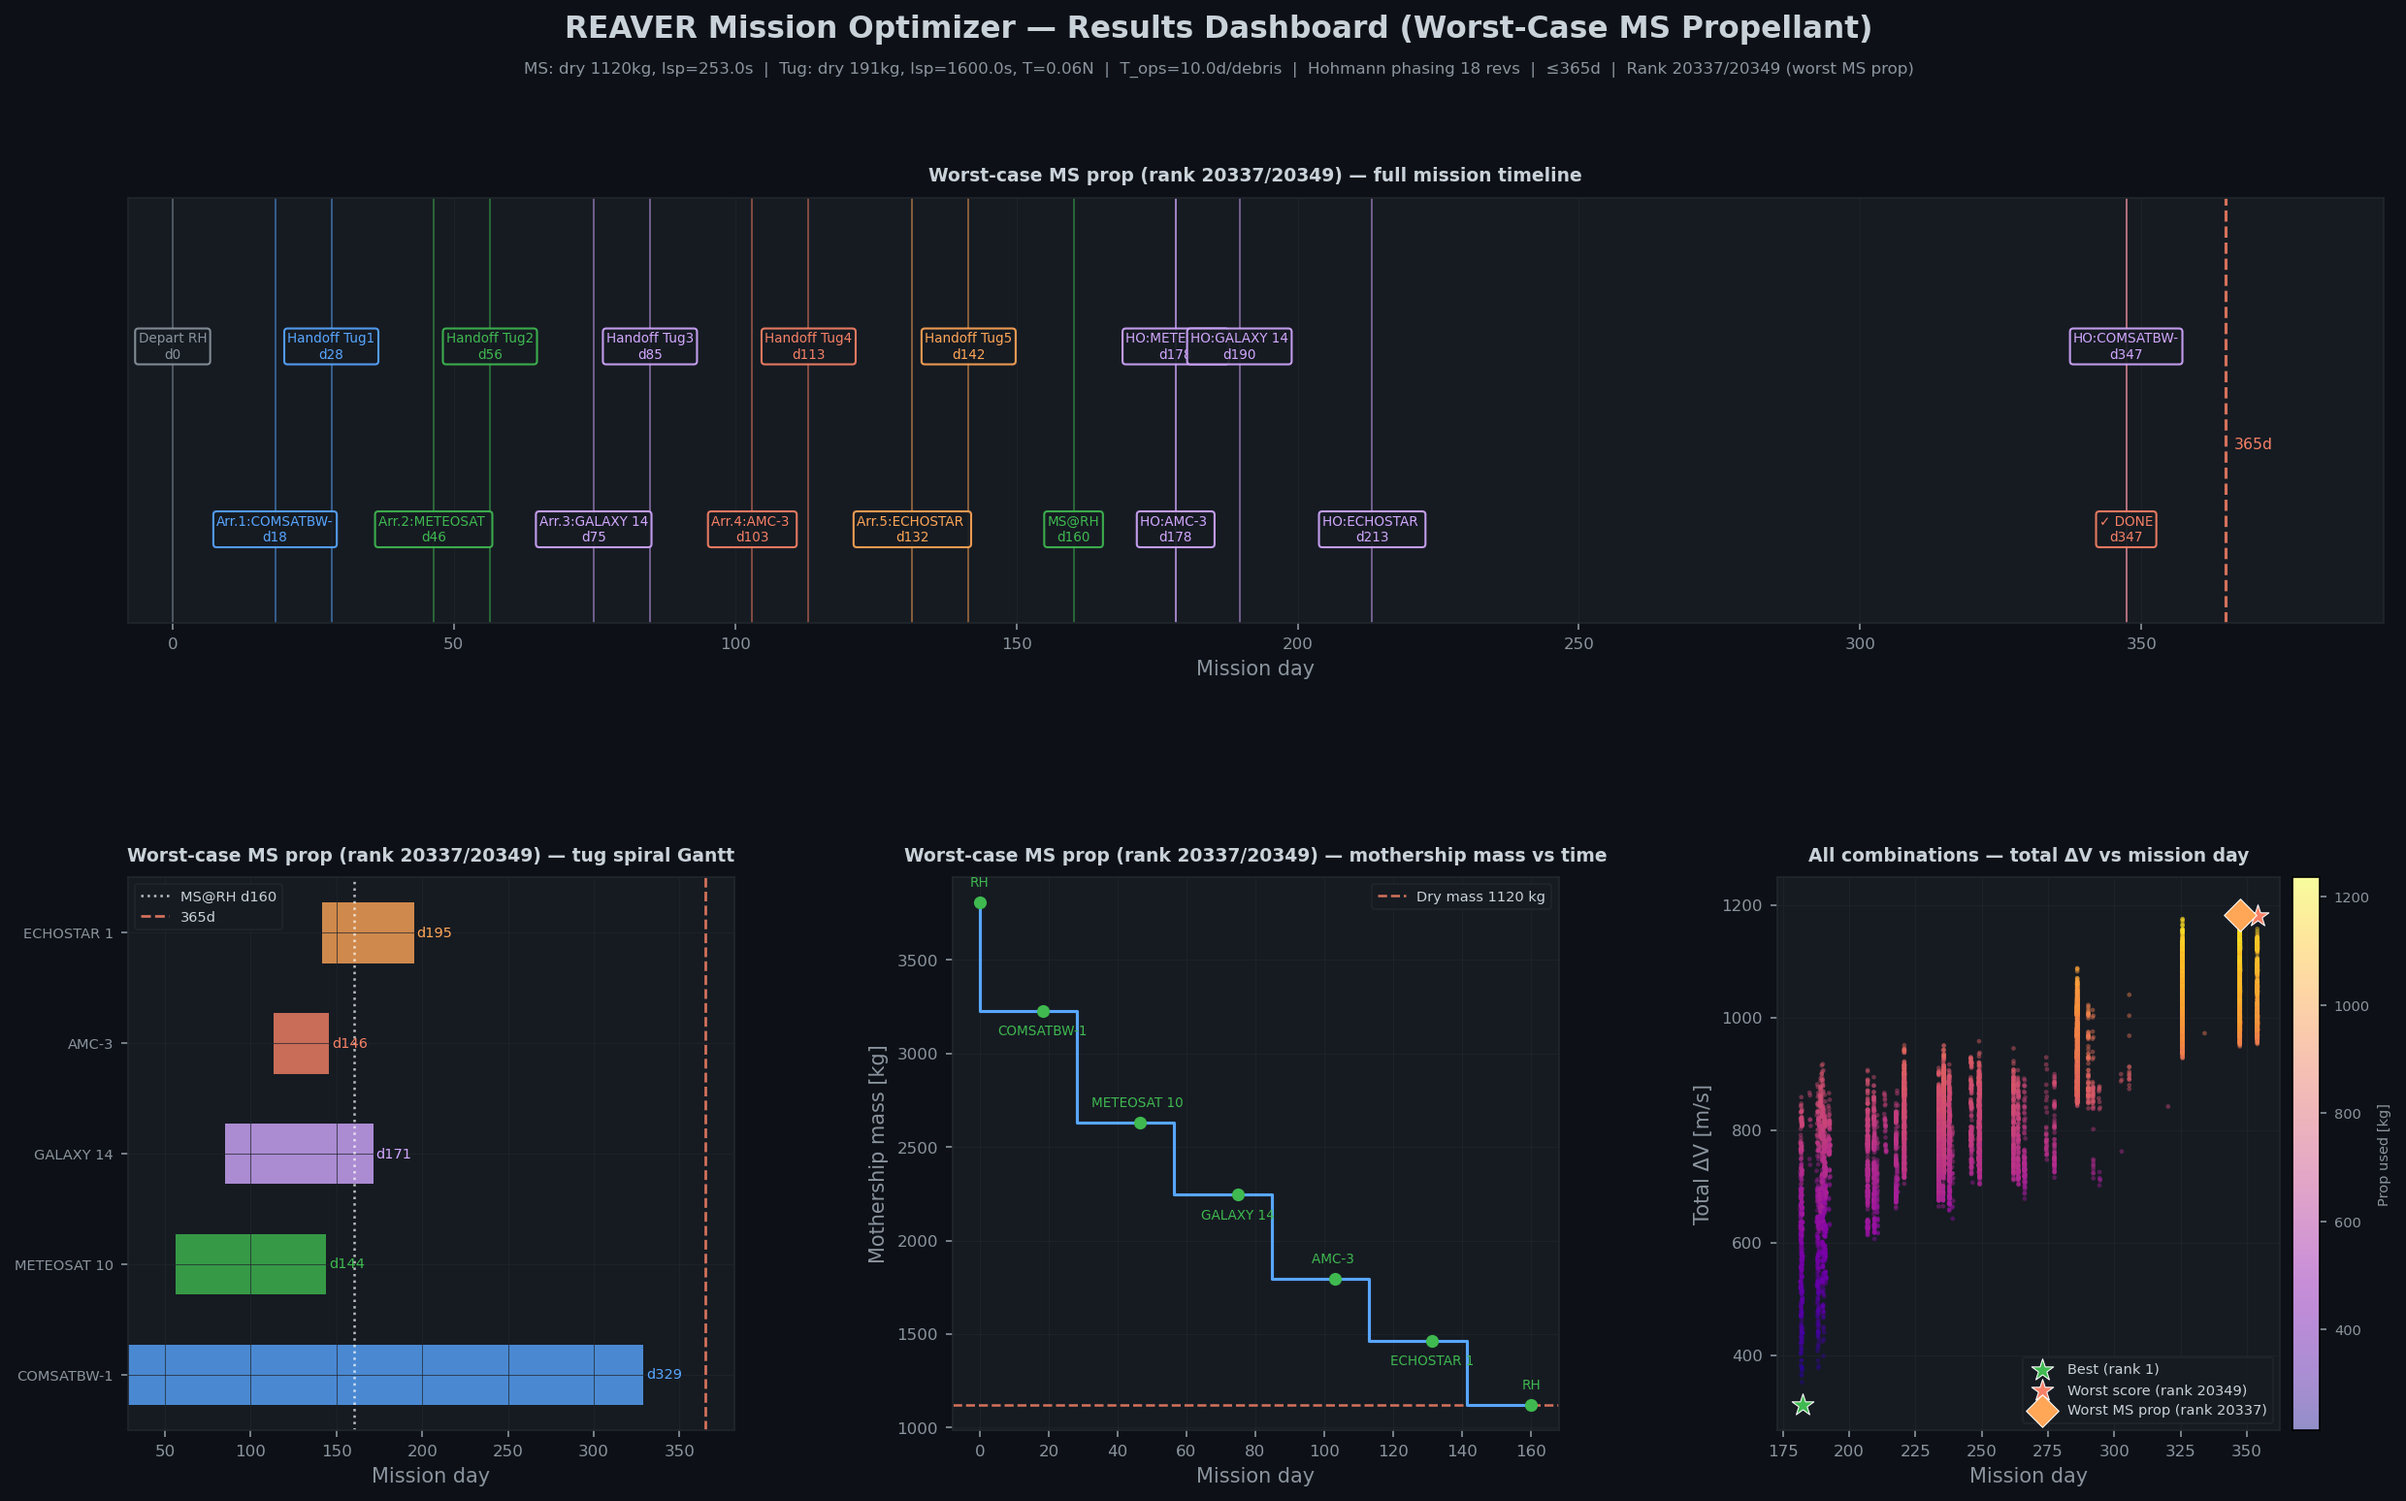
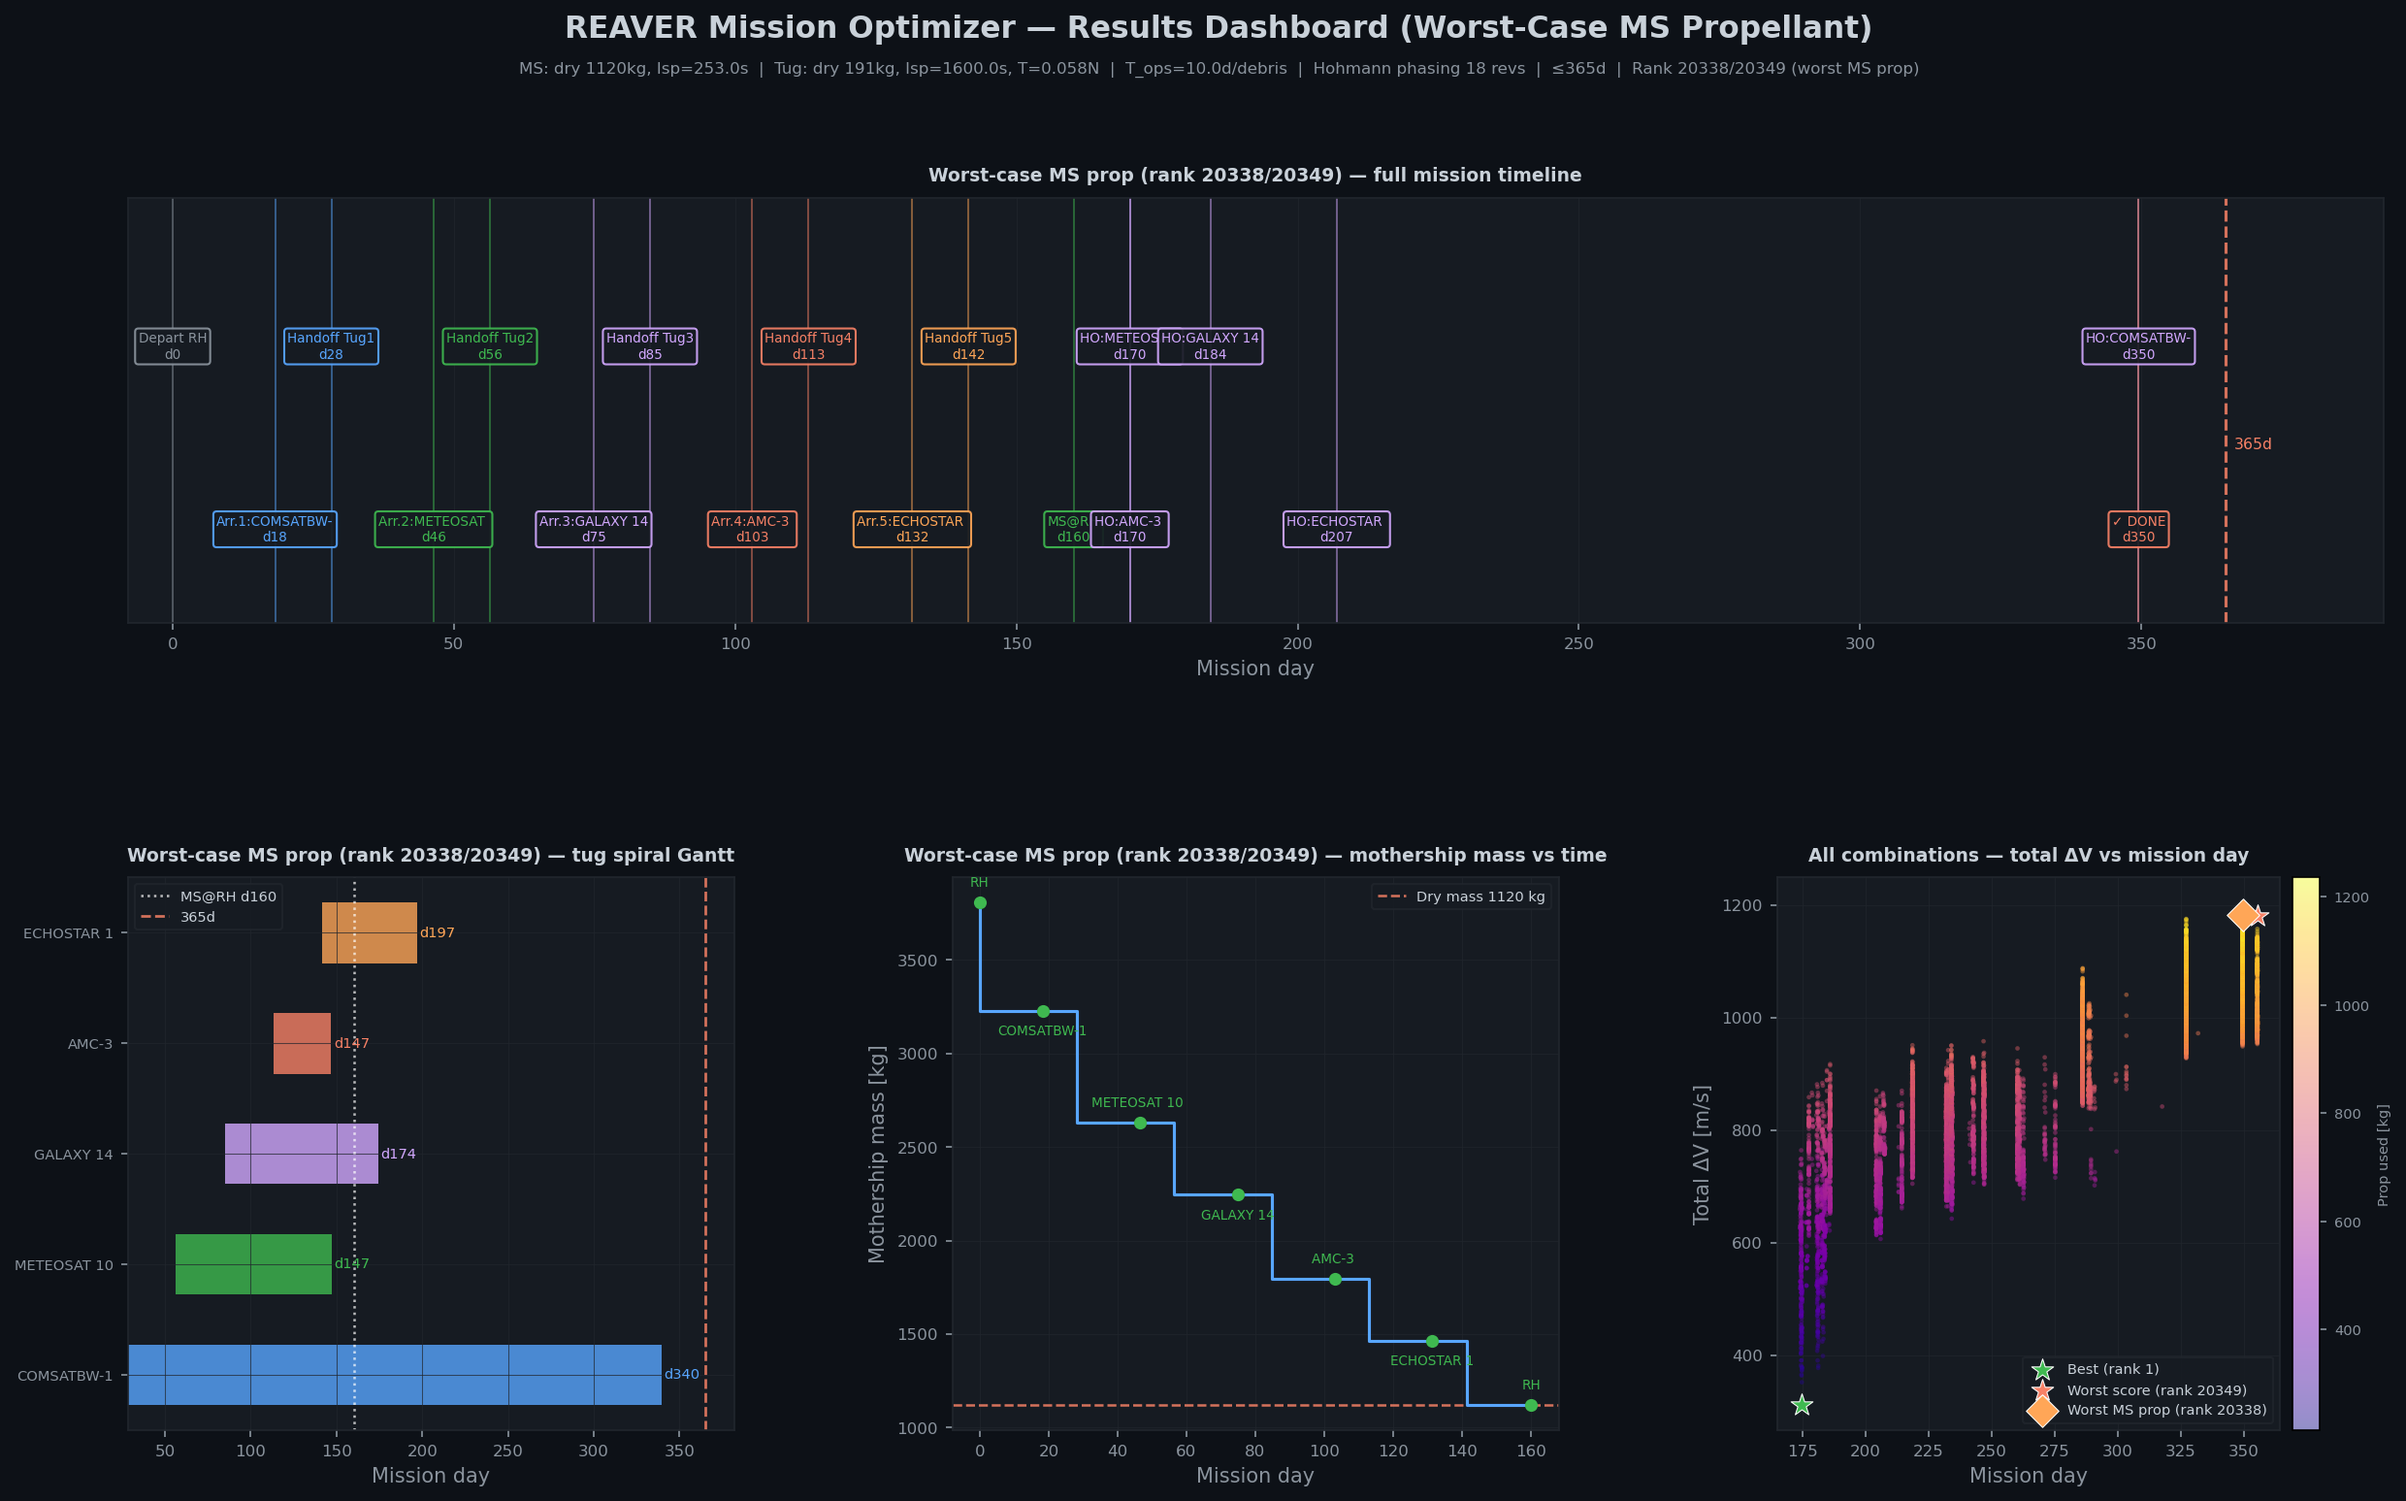
updates

diff --git a/trajectory_optimizer/reaver_optimizer.py b/trajectory_optimizer/reaver_optimizer.py
@@ -34,8 +34,7 @@ warnings.filterwarnings('ignore')
 from config import *
 from reaver_core import (build_transfer_table, compute_tug_spirals, phasing_hohmann,
                          DV1, DV2, DV_PH, T_TR, T_PH, DV_LEG, T_LEG,
-                         TUG_DV, TUG_TIME, TUG_MPROP, TUG_MWET, TUG_WET_LOADED,
-                         T_PH_RH)
+                         TUG_DV, TUG_TIME, TUG_MPROP, TUG_MWET, TUG_WET_LOADED)
 
 # =============================================================================
 # VECTORISED SEQUENCE EVALUATOR
@@ -127,8 +126,8 @@ def evaluate_all_sequences():
     tug_spiral = TUG_TIME[sequences]             # (n_seq, 5)
     tug_arrive = tug_start + tug_spiral          # (n_seq, 5)
 
-    # Handover day = max(ms_return, tug_arrive) + T_PH_RH (MS phases to tug)
-    handover = np.maximum(ms_return[:, None], tug_arrive) + T_PH_RH  # (n_seq,5)
+    # Handover day = max(ms_return, tug_arrive) + T_OPS (RPO close-approach at RH)
+    handover = np.maximum(ms_return[:, None], tug_arrive) + T_OPS    # (n_seq,5)
 
     # Mission completion = last handover
     mission_day = handover.max(axis=1)           # (n_seq,)
@@ -381,88 +380,6 @@ def print_mass_timeline(res, rank, label):
           f"  |  Mission day : {res['mission_day'][rank]:.1f} d")
 
 
-def sensitivity(res):
-    global T_OPS, T_PH_RH, T_LEG, T_PH, DV_LEG
-    best_seq = res['sequences'][0]
-    ms_prop  = res['ms_prop'][0]
-
-    print("\n"+"="*70)
-    print("  SENSITIVITY ANALYSIS  —  best sequence")
-    print("="*70)
-    print("  "+"  ".join(f"{i+1}.{NAMES[best_seq[i]].split('(')[0][:12]}"
-                          for i in range(5)))
-
-    # A) Propellant sweep
-    print(f"\n  A) Propellant budget (T_ops={T_OPS}d fixed):")
-    print(f"  {'Prop':>8} {'Feas':>5} {'Compl d':>9} {'Used kg':>9} {'Margin':>8}")
-    print(f"  {'':─>8} {'':─>5} {'':─>9} {'':─>9} {'':─>8}")
-    nf_s = [RH_IDX] + list(best_seq)
-    nt_s = list(best_seq) + [RH_IDX]
-    best_tug_mwets = TUG_DRY + TUG_MPROP[list(best_seq)]
-    for p in np.linspace(500, 4000, 15):
-        mw = MS_DRY + p + best_tug_mwets.sum()
-        ok = True
-        for i in range(6):
-            mw = mw * np.exp(-DV_LEG[nf_s[i], nt_s[i]] / MS_VEX)
-            if mw < MS_DRY:
-                ok = False; break
-            if i < 5:
-                mw -= best_tug_mwets[i]
-        if ok:
-            prop_used = p - (mw - MS_DRY)
-            margin    = mw - MS_DRY
-            r2 = _eval_single(best_seq, p)
-            print(f"  {p:>8.0f} {'✓':>5} {r2['day']:>9.1f} {prop_used:>9.1f} {margin:>8.1f}")
-        else:
-            print(f"  {p:>8.0f} {'✗':>5} {'—':>9} {'—':>9} {'—':>8}  propellant exhausted")
-
-    # B) Ops time sweep
-    orig_tops = T_OPS
-    print(f"\n  B) Ops time per debris (prop={ms_prop}kg fixed):")
-    print(f"  {'T_ops d':>8} {'Feas':>5} {'Compl d':>9}")
-    print(f"  {'':─>8} {'':─>5} {'':─>9}")
-    for t in np.linspace(1, 14, 14):
-        T_OPS = t
-        r2 = _eval_single(best_seq, ms_prop)
-        if r2['feasible']:
-            print(f"  {t:>8.1f} {'✓':>5} {r2['day']:>9.1f}")
-        else:
-            print(f"  {t:>8.1f} {'✗':>5} {'—':>9}  {r2['reason']}")
-    T_OPS = orig_tops
-
-def _eval_single(seq, ms_prop):
-    """Scalar evaluation of one sequence for sensitivity sweeps."""
-    nodes_from = [RH_IDX] + list(seq)
-    nodes_to   = list(seq) + [RH_IDX]
-    tug_mwets  = np.full(5, TUG_DRY + TUG_MPROP[list(seq)].max())
-    mw = MS_DRY + ms_prop + tug_mwets.sum()
-    day = 0.0
-    for i in range(6):
-        fi, ti = nodes_from[i], nodes_to[i]
-        dv = DV_LEG[fi, ti]
-        mw = mw * np.exp(-dv / MS_VEX)
-        if mw < MS_DRY:
-            return {'feasible': False, 'reason': 'propellant exhausted'}
-        day += T_LEG[fi, ti]
-        if i < 5:
-            day += T_OPS
-            mw -= tug_mwets[i]
-    ms_ret = day
-    tug_starts = []
-    d = 0.0
-    for i in range(6):
-        fi, ti = nodes_from[i], nodes_to[i]
-        d += T_LEG[fi, ti]
-        if i < 5:
-            d += T_OPS
-            tug_starts.append(d)
-    handovers = [max(ms_ret, tug_starts[i] + TUG_TIME[seq[i]]) + T_PH_RH
-                 for i in range(5)]
-    mission_day = max(handovers)
-    feasible = mission_day <= MAX_DAYS
-    return {'feasible': feasible, 'day': mission_day,
-            'reason': f'{mission_day:.1f}d > {MAX_DAYS}d'}
-
 # =============================================================================
 # PROPELLANT COMPARISON TABLE
 # =============================================================================
@@ -534,6 +451,39 @@ def print_tug_analysis():
     print(f"    Propellant    : {TUG_MPROP[wk]:.1f} kg")
     print(f"    Spiral time   : {TUG_TIME[wk]:.1f} days")
     print(f"    Wet mass (w/ debris) : {TUG_MWET[wk]:.1f} kg")
+
+
+# =============================================================================
+# TUG PROPELLANT MARGINS
+# =============================================================================
+
+def print_tug_margins(res, rank):
+    """For each tug in the sequence, show propellant required vs uniform budget."""
+    seq              = res['sequences'][rank]
+    tug_prop_uniform = float(TUG_MPROP[list(seq)].max())
+    nf               = res['n_feasible']
+
+    print("\n" + "="*76)
+    print(f"  TUG PROPELLANT MARGINS — rank {rank+1}/{nf}  "
+          f"(uniform budget: {tug_prop_uniform:.1f} kg/tug)")
+    print("="*76)
+    print(f"  {'Tug':<3} {'Debris':<33} {'Req kg':>8} {'Budget kg':>10} "
+          f"{'Margin kg':>10} {'Margin %':>9}")
+    print(f"  {'':─<3} {'':─<33} {'':─>8} {'':─>10} {'':─>10} {'':─>9}")
+
+    for i, idx in enumerate(seq):
+        req    = float(TUG_MPROP[idx])
+        margin = tug_prop_uniform - req
+        pct    = 100.0 * margin / tug_prop_uniform
+        flag   = '  ← sizing driver' if req == tug_prop_uniform else ''
+        print(f"  {i+1:<3} {NAMES[idx]:<33} {req:>8.1f} {tug_prop_uniform:>10.1f} "
+              f"{margin:>10.1f} {pct:>8.1f}%{flag}")
+
+    total_loaded = 5 * tug_prop_uniform
+    total_needed = float(TUG_MPROP[list(seq)].sum())
+    print(f"\n  Total loaded  : {total_loaded:>8.1f} kg  (5 × {tug_prop_uniform:.1f} kg)")
+    print(f"  Total needed  : {total_needed:>8.1f} kg")
+    print(f"  Total margin  : {total_loaded - total_needed:>8.1f} kg")
 
 
 # =============================================================================
@@ -709,8 +659,8 @@ if __name__ == '__main__':
 
         print_mass_timeline(res, wp, f"WORST CASE — MS propellant (rank {wp+1}/{nf})")
 
-        print_target_frequency(res, top_n=res['n_feasible'])
-        sensitivity(res)
+        # print_target_frequency(res, top_n=res['n_feasible'])
+        print_tug_margins(res, wp)
         make_plots(res, wp=wp)
 
     print("\n  Done.")

diff --git a/trajectory_optimizer/nominal_mission.py b/trajectory_optimizer/nominal_mission.py
@@ -17,8 +17,7 @@ warnings.filterwarnings('ignore')
 
 from config import *
 from reaver_core import (DV1, DV2, DV_PH, T_TR, T_PH, DV_LEG, T_LEG,
-                         TUG_DV, TUG_TIME, TUG_MPROP, TUG_MWET, TUG_WET_LOADED,
-                         T_PH_RH)
+                         TUG_DV, TUG_TIME, TUG_MPROP, TUG_MWET, TUG_WET_LOADED)
 
 # =============================================================================
 # USER INPUT
@@ -165,7 +164,7 @@ def evaluate_sequence(seq):
     ms_return = t
 
     tug_arrive  = np.array([tug_starts[i] + TUG_TIME[seq[i]] for i in range(5)])
-    handover    = np.array([max(ms_return, tug_arrive[i]) + T_PH_RH for i in range(5)])
+    handover    = np.array([max(ms_return, tug_arrive[i]) + T_OPS  for i in range(5)])
     mission_day = handover.max()
     tot_dv      = dv_legs.sum()
 
@@ -301,6 +300,37 @@ def print_mass_timeline(r):
     print(f"\n  Prop required : {r['ms_prop']:.1f} kg"
           f"  |  Final margin : {m - MS_DRY:.1f} kg"
           f"  |  Mission day : {r['mission_day']:.1f} d")
+
+# =============================================================================
+# TUG PROPELLANT MARGINS
+# =============================================================================
+
+def print_tug_margins(r):
+    """For each tug in the sequence, show propellant required vs uniform budget."""
+    seq              = r['seq']
+    tug_prop_uniform = float(r['tug_mwets'][0] - TUG_DRY)
+
+    print("\n" + "="*76)
+    print(f"  TUG PROPELLANT MARGINS  (uniform budget: {tug_prop_uniform:.1f} kg/tug)")
+    print("="*76)
+    print(f"  {'Tug':<3} {'Debris':<33} {'Req kg':>8} {'Budget kg':>10} "
+          f"{'Margin kg':>10} {'Margin %':>9}")
+    print(f"  {'':─<3} {'':─<33} {'':─>8} {'':─>10} {'':─>10} {'':─>9}")
+
+    for i, idx in enumerate(seq):
+        req    = float(TUG_MPROP[idx])
+        margin = tug_prop_uniform - req
+        pct    = 100.0 * margin / tug_prop_uniform
+        flag   = '  ← sizing driver' if req == tug_prop_uniform else ''
+        print(f"  {i+1:<3} {NAMES[idx]:<33} {req:>8.1f} {tug_prop_uniform:>10.1f} "
+              f"{margin:>10.1f} {pct:>8.1f}%{flag}")
+
+    total_loaded = 5 * tug_prop_uniform
+    total_needed = float(TUG_MPROP[list(seq)].sum())
+    print(f"\n  Total loaded  : {total_loaded:>8.1f} kg  (5 × {tug_prop_uniform:.1f} kg)")
+    print(f"  Total needed  : {total_needed:>8.1f} kg")
+    print(f"  Total margin  : {total_loaded - total_needed:>8.1f} kg")
+
 
 # =============================================================================
 # DASHBOARD PLOT
@@ -454,6 +484,7 @@ if __name__ == '__main__':
 
     print_results(r)
     print_mass_timeline(r)
+    print_tug_margins(r)
     make_plot(r)
 
     if not r['feasible']:

diff --git a/trajectory_optimizer/rh_raan_sweep.py b/trajectory_optimizer/rh_raan_sweep.py
@@ -148,9 +148,6 @@ def evaluate_raan(rh_raan_deg):
     DV_LEG, T_LEG = _rh_transfers(rh_raan_deg)
     TUG_MPROP, TUG_TIME = _tug_data(rh_raan_deg)
 
-    T_tgt_rh = 2*np.pi * np.sqrt(RH_SMA**3/MU)
-    T_PH_RH  = N_PHASE_REV * T_tgt_rh * (1.0 - 1.0/(4.0*N_PHASE_REV)) / DAY
-
     dv_legs = DV_LEG[_from, _to]
     t_legs  = T_LEG[_from,  _to]
 
@@ -168,7 +165,7 @@ def evaluate_raan(rh_raan_deg):
     t_ops_arr   = np.array([T_OPS]*5 + [0.0])
     cum_time    = np.cumsum(t_legs + t_ops_arr[None, :], axis=1)
     tug_arrive  = cum_time[:, :5] + TUG_TIME[_sequences]
-    handover    = np.maximum(cum_time[:, 5:6], tug_arrive) + T_PH_RH
+    handover    = np.maximum(cum_time[:, 5:6], tug_arrive) + T_OPS
     mission_day = handover.max(axis=1)
     feas        = mission_day <= MAX_DAYS   # (N_SEQ,)
 

diff --git a/trajectory_optimizer/config.py b/trajectory_optimizer/config.py
@@ -22,7 +22,7 @@ MS_VEX = MS_ISP * G0  # m/s  effective exhaust velocity
 TUG_DRY = 191   # kg   dry mass per tug
 TUG_ISP = 1600.0       # s    specific impulse (electric propulsion)
 TUG_VEX = TUG_ISP * G0
-TUG_THR = 0.06        # N    thrust per tug
+TUG_THR = 0.058        # N    thrust per tug
 
 # ── Mission ───────────────────────────────────────────────────────────────────
 N_PHASE_REV = 18       # revolutions on phasing orbit to close 90° phase gap

diff --git a/trajectory_optimizer/test_reaver.py b/trajectory_optimizer/test_reaver.py
@@ -271,7 +271,7 @@ class TestEvaluateSequence:
             assert r['tug_arrive'][i] >= r['tug_starts'][i] - 1e-9
 
     def test_handover_after_ms_return(self):
-        # Handover = max(ms_return, tug_arrive) + T_PH_RH — always ≥ ms_return
+        # Handover = max(ms_return, tug_arrive) + T_OPS — always ≥ ms_return
         r = nm.evaluate_sequence(self.SEQ)
         for i in range(5):
             assert r['handover'][i] >= r['ms_return'] - 1e-9

diff --git a/trajectory_optimizer/reaver_core.py b/trajectory_optimizer/reaver_core.py
@@ -158,4 +158,3 @@ TUG_WET_LOADED = TUG_DRY + TUG_MPROP.max()
 print(f"done ({time.time()-t0:.2f}s)")
 print(f"  Tug loaded wet mass (worst-case sizing): {TUG_WET_LOADED:.1f} kg")
 
-_, T_PH_RH = phasing_hohmann(RH_SMA)
